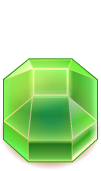
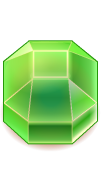
fix: size of gems

diff --git a/exploring-js/13/src/ts/game/bounty-spawn.ts b/exploring-js/13/src/ts/game/bounty-spawn.ts
@@ -34,9 +34,12 @@ export class BountySpawn implements Component {
     spawn(x: number, y: number): Bounty {
         const {terrain} = this.bonusPathLayer;
         const bounty = this.bountyFactory();
-        const {transform} = bounty;
-        transform.position.x = terrain.positionX(x);
-        transform.position.y = terrain.positionY(y);
+        const {position} = bounty.transform;
+        const {sprite} = bounty.view;
+        position.x = terrain.positionX(x);
+        position.y = terrain.positionY(y);
+        sprite.setScale(.5, .5);
+        sprite.setPivot(.5, .5);
         return bounty;
     }
 
